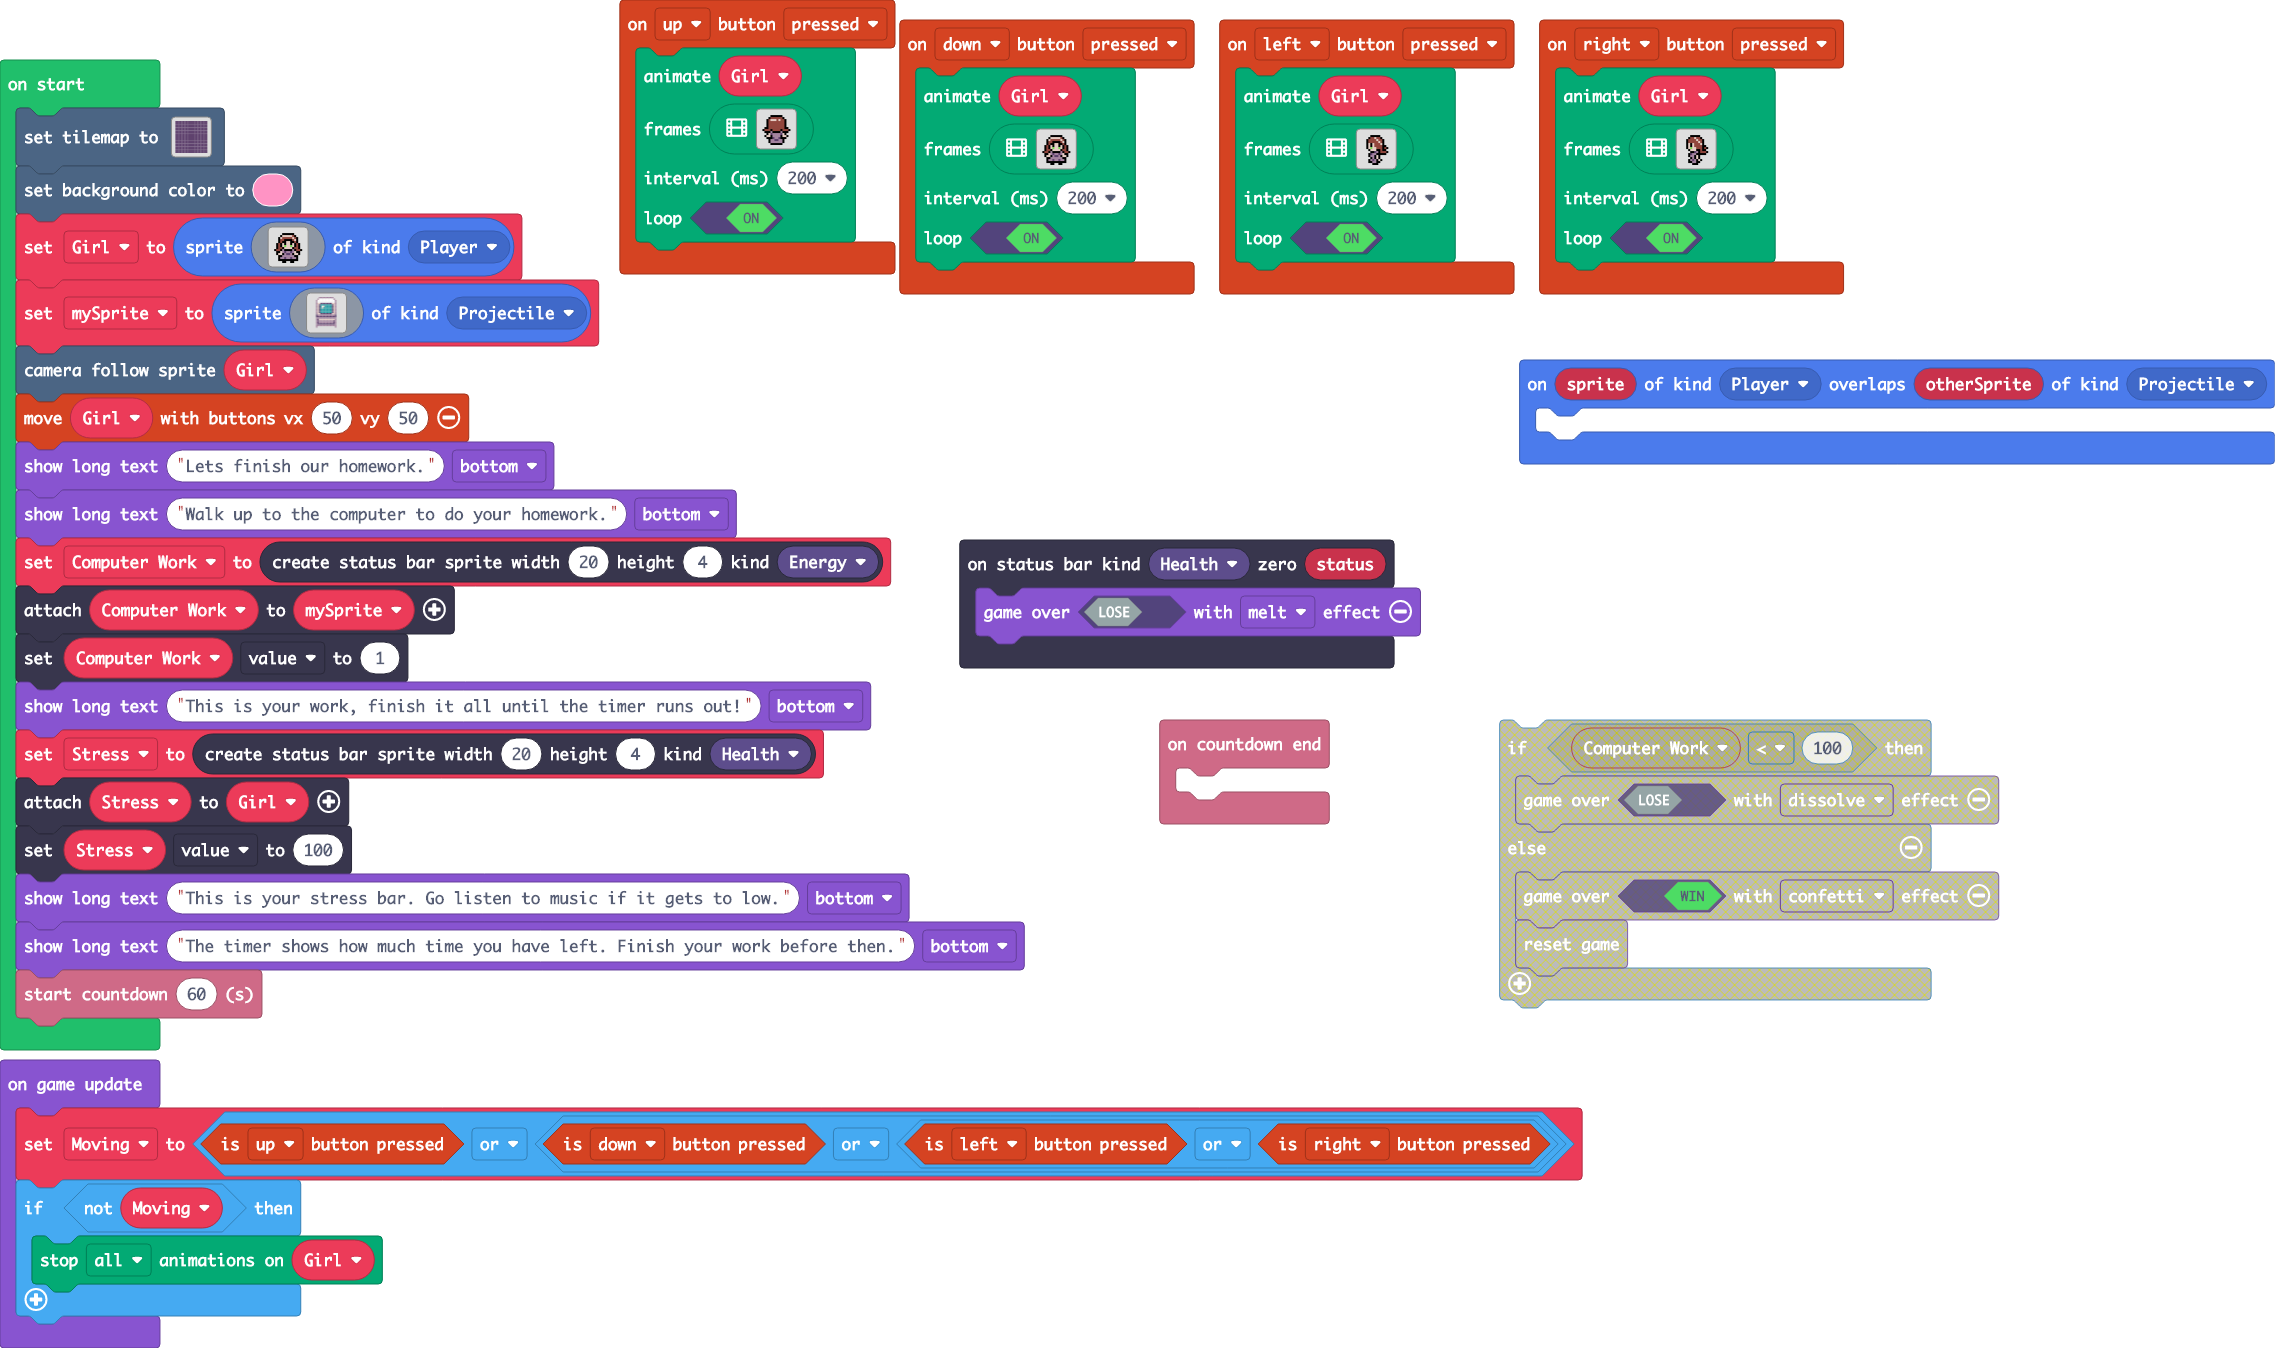
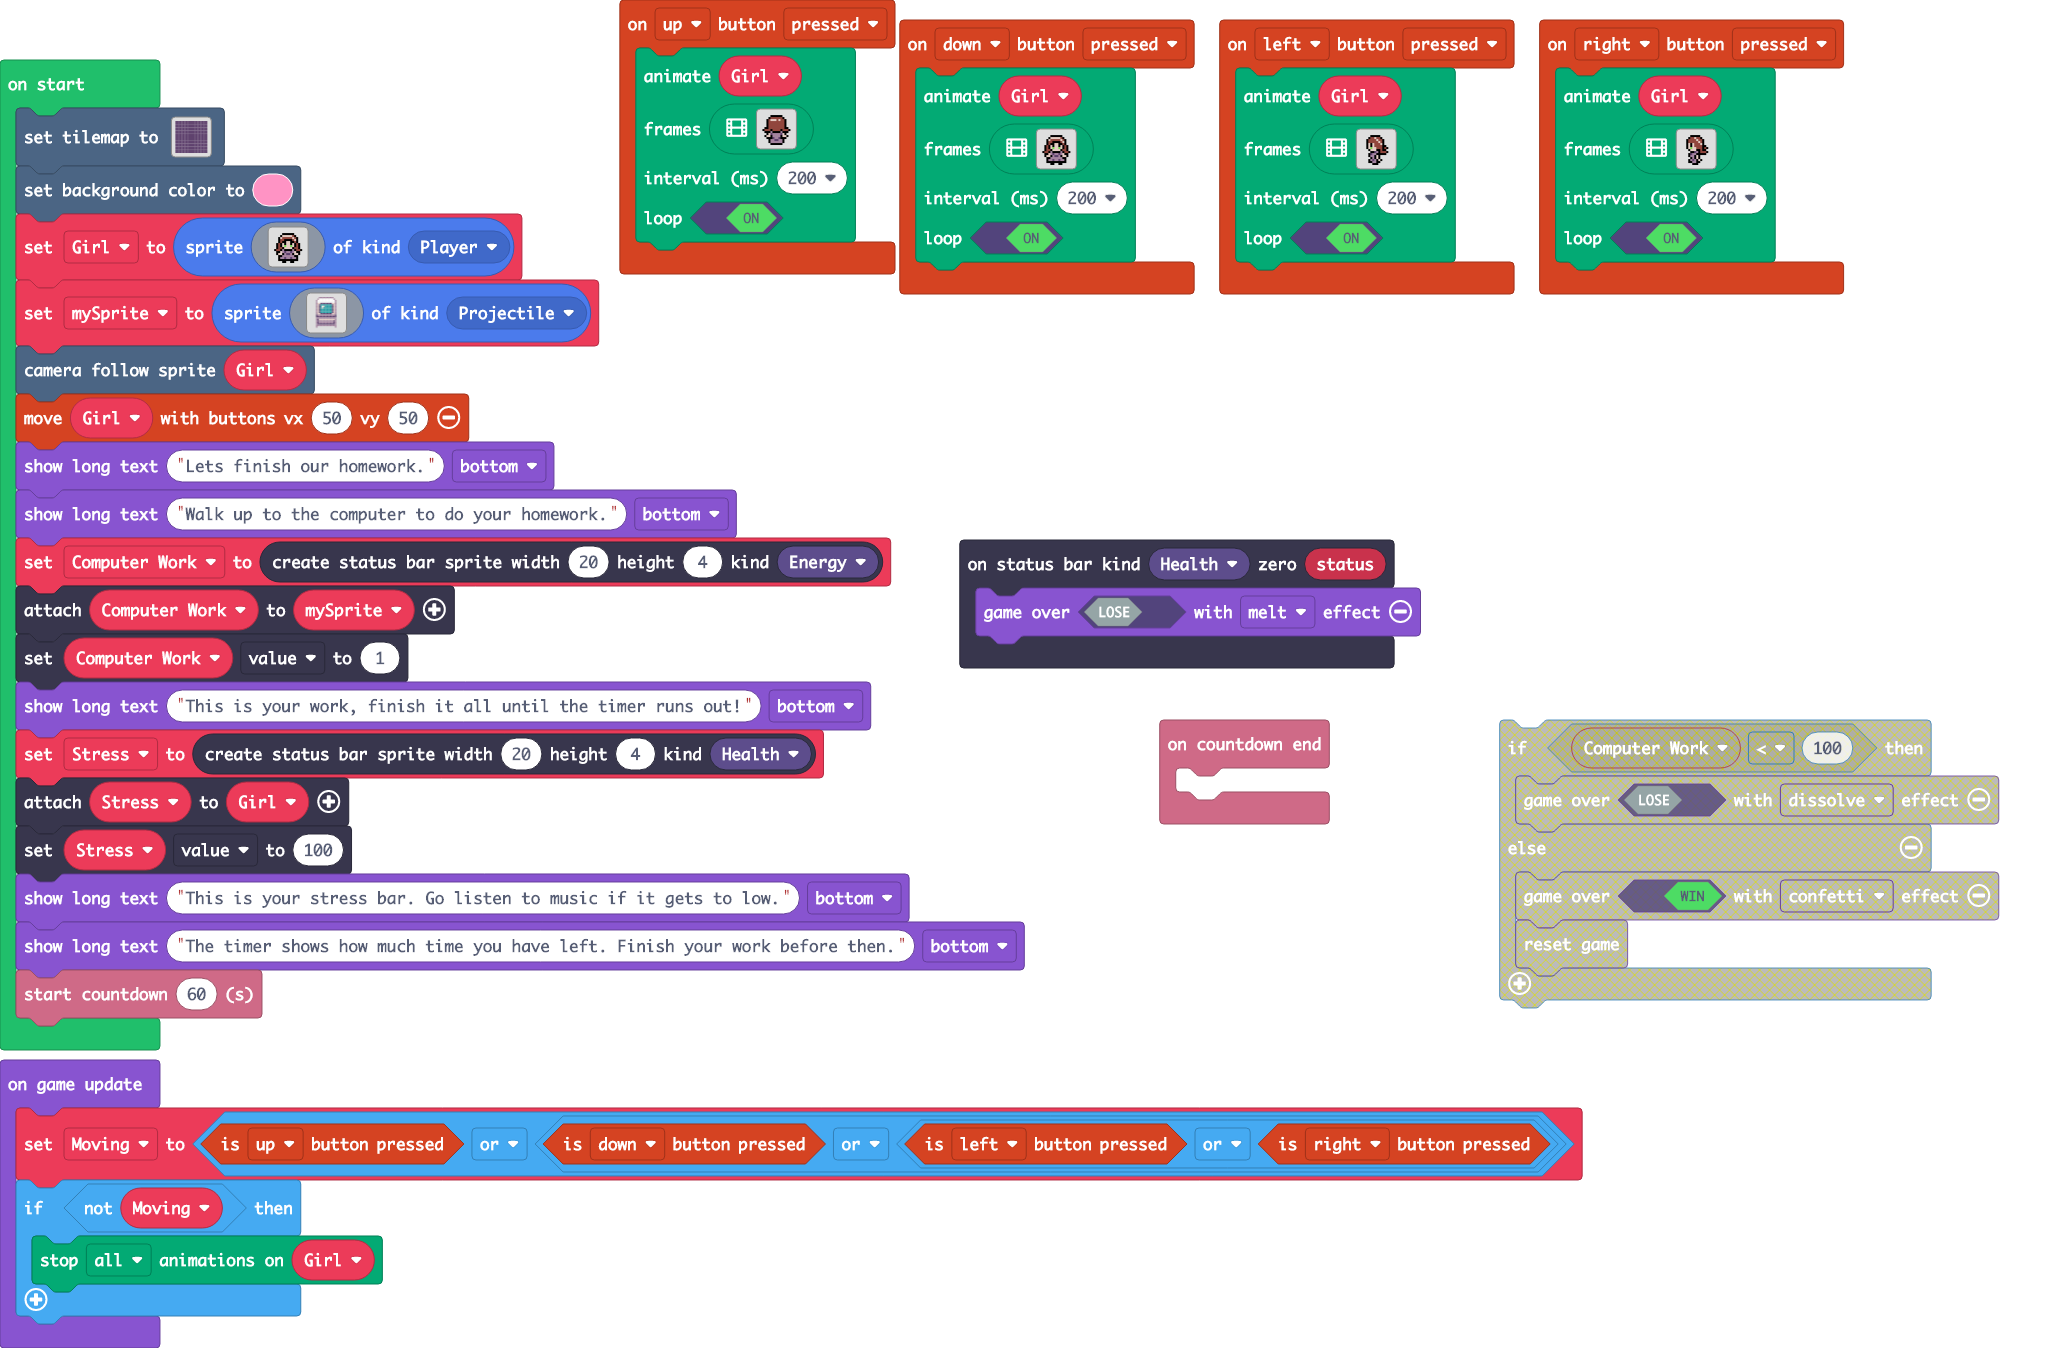
Update main.blocks, main.ts

Changed region(s): [[0.0, 0.0, 0.9049, 1.0], [0.4993, 0.5297, 0.9985, 0.7478], [0.6553, 0.2493, 1.0, 0.3427]]

diff --git a/main.ts b/main.ts
@@ -203,9 +203,6 @@ controller.right.onEvent(ControllerButtonEvent.Pressed, function () {
     true
     )
 })
-sprites.onOverlap(SpriteKind.Player, SpriteKind.Projectile, function (sprite, otherSprite) {
-	
-})
 controller.down.onEvent(ControllerButtonEvent.Pressed, function () {
     animation.runImageAnimation(
     Girl,
